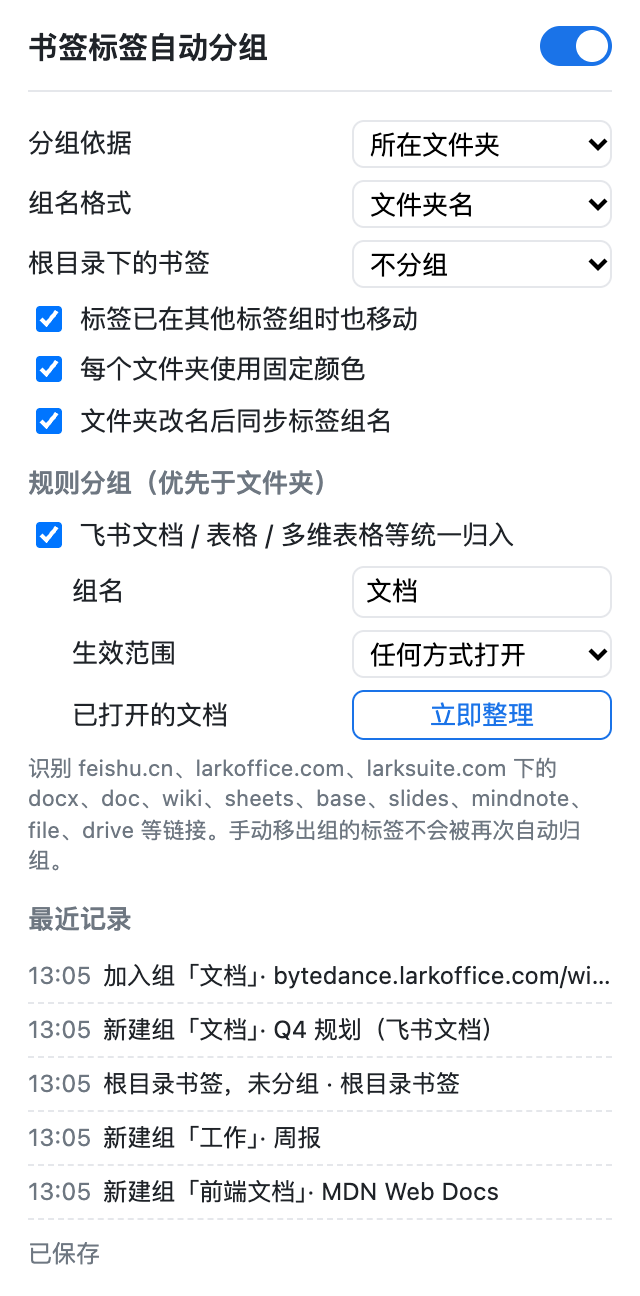
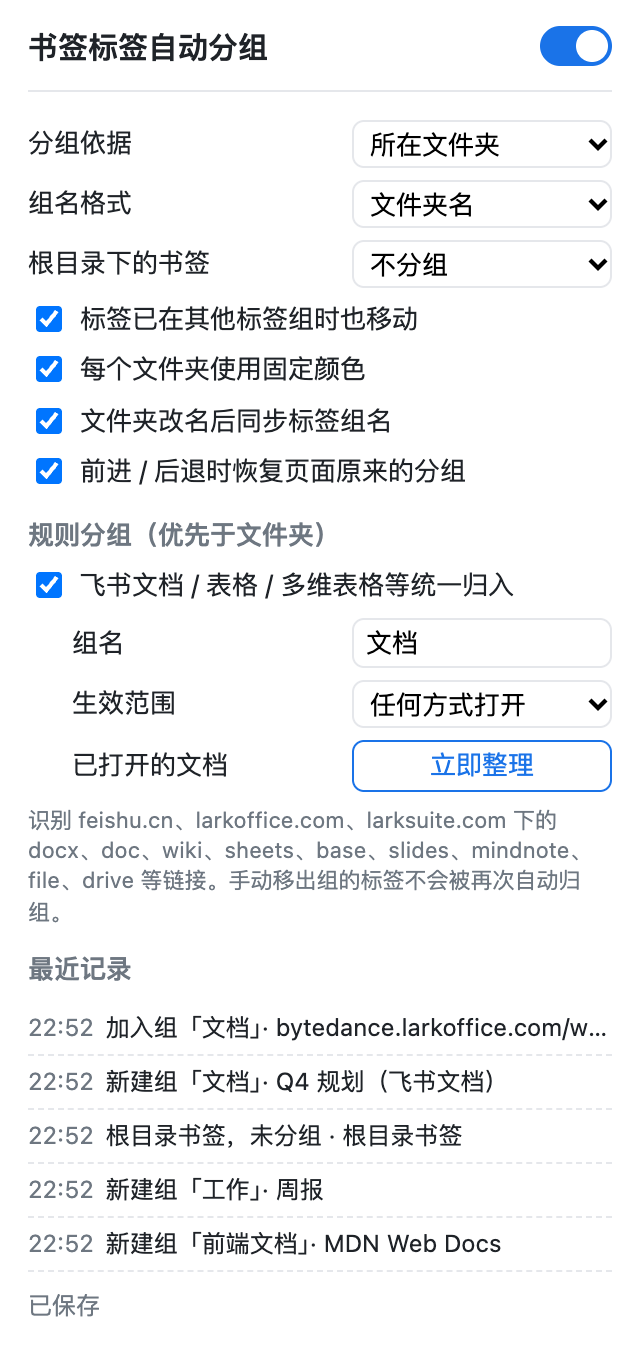
feat: 前进/后退时恢复页面原来的标签组（v1.3.0）
场景：在文档组的标签里从书签打开 misc 文件夹的书签，标签进入 misc 组；
点后退回到文档时，标签会自动回到文档组，前进又回到 misc 组。

实现
- 每个标签记录访问过的页面当时所在的组（storage.session.tabHistory，
  每标签最多 30 个），离开页面时和插件分组后各记一次
- onCommitted / onHistoryStateUpdated 收到 forward_back 导航时，
  按记录恢复：放回插件的组（组已删则重建）/ 移出组 / 放回用户原来的组
- 只纠正插件自己造成的分组：标签在用户自建组里、或用户手动移出过的，
  一律不动；没有历史记录（升级前打开的页面）不处理
- 新增设置“前进/后退时恢复页面原来的分组”，默认开启，可关闭
- 刷新、浏览器重启恢复的标签不触发

测试
- 单元测试 21 个（+3：isHistoryNav/historyKey、snapshotGroupState、
  decideHistoryRestore）
- 端到端 37 个场景（+5：文档↔Work 往返、放回用户组、不覆盖手动调整、
  SPA pushState 往返、关闭设置保持旧行为）
- 回退并移除了未完成的“点书签自动在新标签打开”尝试，相关代码无残留

diff --git a/extension/background.js b/extension/background.js
@@ -1,14 +1,18 @@
 import {
   DEFAULT_SETTINGS,
   DOC_GROUP_ID,
+  HISTORY_PER_TAB,
   ROOT_NODE_ID,
   buildCandidateUrls,
   colorForTarget,
+  decideHistoryRestore,
   docGroupTarget,
+  historyKey,
   isActiveMainFrame,
   isAutoDocCandidate,
   isBookmarkOpen,
   isDocUrl,
+  isHistoryNav,
   looseUrlKey,
   mapKey,
   mayBeBookmarkOpen,
@@ -18,6 +22,7 @@ import {
   resolveDocTarget,
   resolveGroupTarget,
   shortUrlLabel,
+  snapshotGroupState,
   titleForChain,
   usedDuringNavigation,
 } from './lib/core.js';
@@ -355,6 +360,107 @@ async function sweepDocTabs() {
   return { grouped };
 }
 
+// ---------- 前进 / 后退：每个页面记住当时所在的组 ----------
+// tabHistory: { [tabId]: { [historyKey(url)]: snapshot } }，存在 storage.session
+// tabUrl:     tabId -> 当前页面 URL（内存；SW 重启后从 chrome.tabs 补齐）
+const tabUrl = new Map();
+
+async function getTabHistory() {
+  const { tabHistory } = await chrome.storage.session.get('tabHistory');
+  return tabHistory || {};
+}
+
+/** 记录某标签上某页面当前所在的组 */
+async function rememberPageGroup(tabId, url, groupId, map) {
+  if (!url || !/^https?:/.test(url)) return;
+  map = map || (await getGroupMap());
+  const owned = Object.values(map).find((v) => v.groupId === groupId);
+  const all = await getTabHistory();
+  const h = all[tabId] || {};
+  const key = historyKey(url);
+  const snap = snapshotGroupState(groupId, owned);
+  if (JSON.stringify(h[key]) === JSON.stringify(snap)) return; // 没变化不写，减少单页应用频繁 pushState 时的写入
+  delete h[key]; // 重新插入，保持“最近使用”在最后
+  h[key] = snap;
+  const keys = Object.keys(h);
+  for (const k of keys.slice(0, Math.max(0, keys.length - HISTORY_PER_TAB))) delete h[k];
+  all[tabId] = h;
+  await chrome.storage.session.set({ tabHistory: all });
+}
+
+/**
+ * 离开当前页面前，记下它此刻的分组（用户可能已手动调整过）。
+ * leavingUrl 在事件里同步取得；SW 刚重启不知道时，退回用 tab.url（但不能是正要去的地址）。
+ */
+async function rememberLeavingPage(tabId, leavingUrl, targetUrl) {
+  const tab = await chrome.tabs.get(tabId).catch(() => null);
+  if (!tab) return;
+  let url = leavingUrl;
+  if (!url) {
+    url = tab.url;
+    if (!url || historyKey(url) === historyKey(targetUrl)) return;
+  }
+  await rememberPageGroup(tabId, url, tab.groupId);
+}
+
+/** 前进 / 后退回到某页面：恢复它当时所在的组 */
+async function restoreOnHistoryNav(tabId, url) {
+  const settings = await getSettings();
+  if (!settings.enabled || !settings.restoreOnHistoryNav) return { action: 'disabled' };
+  const want = (await getTabHistory())[tabId]?.[historyKey(url)];
+  const { tab, skip } = await getGroupableTab(tabId);
+  if (skip) return { action: skip };
+  const map = await getGroupMap();
+  const placed = await getPlacedTabs();
+  let userGroupAlive = false;
+  if (want?.g === 'user') {
+    const g = await getGroup(want.groupId);
+    userGroupAlive = !!g && g.windowId === tab.windowId;
+  }
+  const decision = decideHistoryRestore(want, {
+    groupId: tab.groupId,
+    owned: tab.groupId !== -1 && isOwnedGroup(map, tab.groupId),
+    dismissed: tabId in placed,
+    userGroupAlive,
+  });
+
+  let result = { action: decision };
+  if (decision === 'to-ext') {
+    const target = { folderId: want.folderId, title: want.title, kind: want.folderId === DOC_GROUP_ID ? 'docs' : 'folder' };
+    if (target.kind === 'docs') {
+      Object.assign(target, docGroupTarget(settings));
+    } else if (settings.syncTitleOnRename) {
+      // 文件夹可能已改名：取当前名字
+      try {
+        const chain = await getAncestors(want.folderId);
+        if (chain.length) target.title = titleForChain(chain, settings.titleStyle);
+      } catch {}
+    }
+    const groupId = await findGroupFor(tab.windowId, target, map);
+    if (groupId != null && tab.groupId === groupId) {
+      result = { action: 'already-in-group', groupId };
+    } else {
+      result = await moveToTarget(tab, target, groupId, settings, map);
+      placed[tabId] = result.groupId;
+    }
+    result.title = target.title;
+  } else if (decision === 'to-user') {
+    await withRetry(() => chrome.tabs.group({ tabIds: tabId, groupId: want.groupId }));
+    delete placed[tabId];
+  } else if (decision === 'ungroup') {
+    await withRetry(() => chrome.tabs.ungroup(tabId));
+    delete placed[tabId];
+  }
+  if (['created', 'joined', 'to-user', 'ungroup'].includes(result.action)) {
+    await setGroupMap(map);
+    await setPlacedTabs(placed);
+    const label = shortUrlLabel(url);
+    const group = result.title || (decision === 'to-user' ? (await getGroup(want.groupId))?.title : null);
+    await addLog({ action: decision === 'ungroup' ? 'restored-ungroup' : 'restored', group, bookmark: label, via: 'history' });
+  }
+  return result;
+}
+
 /** 书签文件夹改名/移动或设置变化后，同步标签组标题（仅限用户未手动改过的组） */
 async function syncGroupTitles() {
   const settings = await getSettings();
@@ -400,6 +506,11 @@ chrome.webNavigation.onBeforeNavigate.addListener((d) => {
   const urls = fresh ? prev.urls : [];
   urls.push(d.url);
   pendingNav.set(d.tabId, { urls, at: Date.now(), startedAt: fresh ? prev.startedAt : Date.now() });
+  // 记下即将离开的页面此刻所在的组（只在一次导航开始时记一次，重定向中途不重复记）
+  if (!fresh) {
+    const leavingUrl = tabUrl.get(d.tabId); // 同步取，避免排队期间被新页面覆盖
+    enqueue(() => rememberLeavingPage(d.tabId, leavingUrl, d.url));
+  }
 });
 
 chrome.webNavigation.onErrorOccurred.addListener((d) => {
@@ -412,7 +523,11 @@ chrome.webNavigation.onCommitted.addListener((d) => {
   pendingNav.delete(d.tabId);
   const fresh = pending && Date.now() - pending.at < PENDING_TTL_MS;
   const candidates = buildCandidateUrls(fresh ? pending.urls : [], d.url);
-  if (isBookmarkOpen(d)) {
+  tabUrl.set(d.tabId, d.url);
+  if (isHistoryNav(d)) {
+    // 前进 / 后退：恢复该页面当时的分组，不按书签 / 文档规则重新归组
+    enqueue(() => restoreOnHistoryNav(d.tabId, d.url));
+  } else if (isBookmarkOpen(d)) {
     enqueue(() => processBookmarkNavigation(d.tabId, candidates, { via: 'transition' }));
   } else if (mayBeBookmarkOpen(d)) {
     // 先按书签管理器路径识别；不是书签时内部会回落到文档自动归组
@@ -426,13 +541,31 @@ chrome.webNavigation.onCommitted.addListener((d) => {
     // 登录后跳回文档（client_redirect）、表单提交后跳转等
     enqueue(() => processAutoDocNavigation(d.tabId, candidates));
   }
+  // 处理完后记下新页面所在的组
+  enqueue(() => rememberCurrentPage(d.tabId, d.url));
 });
 
 // 飞书网页是单页应用：站内切换到文档时不触发 onCommitted，只触发 onHistoryStateUpdated
 chrome.webNavigation.onHistoryStateUpdated.addListener((d) => {
-  if (!isActiveMainFrame(d) || !isAutoDocCandidate(d) || !isDocUrl(d.url)) return;
-  enqueue(() => processAutoDocNavigation(d.tabId, [d.url]));
+  if (!isActiveMainFrame(d)) return;
+  const prevUrl = tabUrl.get(d.tabId);
+  tabUrl.set(d.tabId, d.url);
+  enqueue(async () => {
+    // pushState / 后退前，先记下离开的那个“页面”的分组
+    if (prevUrl && historyKey(prevUrl) !== historyKey(d.url)) {
+      const tab = await chrome.tabs.get(d.tabId).catch(() => null);
+      if (tab) await rememberPageGroup(d.tabId, prevUrl, tab.groupId);
+    }
+    if (isHistoryNav(d)) await restoreOnHistoryNav(d.tabId, d.url);
+    else if (isAutoDocCandidate(d) && isDocUrl(d.url)) await processAutoDocNavigation(d.tabId, [d.url]);
+    await rememberCurrentPage(d.tabId, d.url);
+  });
 });
+
+async function rememberCurrentPage(tabId, url) {
+  const tab = await chrome.tabs.get(tabId).catch(() => null);
+  if (tab) await rememberPageGroup(tabId, url, tab.groupId);
+}
 
 chrome.webNavigation.onTabReplaced.addListener(({ replacedTabId, tabId }) => {
   const p = pendingNav.get(replacedTabId);
@@ -447,16 +580,28 @@ chrome.webNavigation.onTabReplaced.addListener(({ replacedTabId, tabId }) => {
       delete placed[replacedTabId];
       await setPlacedTabs(placed);
     }
+    const all = await getTabHistory();
+    if (replacedTabId in all) {
+      all[tabId] = all[replacedTabId];
+      delete all[replacedTabId];
+      await chrome.storage.session.set({ tabHistory: all });
+    }
   });
 });
 
 chrome.tabs.onRemoved.addListener((tabId) => {
   pendingNav.delete(tabId);
+  tabUrl.delete(tabId);
   enqueue(async () => {
     const placed = await getPlacedTabs();
     if (tabId in placed) {
       delete placed[tabId];
       await setPlacedTabs(placed);
+    }
+    const all = await getTabHistory();
+    if (tabId in all) {
+      delete all[tabId];
+      await chrome.storage.session.set({ tabHistory: all });
     }
   });
 });
@@ -519,10 +664,12 @@ chrome.runtime.onInstalled.addListener(async () => {
 globalThis.__btg = {
   processBookmarkNavigation,
   processAutoDocNavigation,
+  restoreOnHistoryNav,
   sweepDocTabs,
   syncGroupTitles,
   getGroupMap,
   getPlacedTabs,
+  getTabHistory,
   getSettings,
   idle: () => queue,
 };

diff --git a/extension/lib/core.js b/extension/lib/core.js
@@ -23,6 +23,7 @@ export const DEFAULT_SETTINGS = Object.freeze({
   docGroupEnabled: true, // 飞书文档 / 表格 / 多维表格等统一归入一个组（优先于按文件夹分组）
   docGroupTitle: DEFAULT_DOC_GROUP_TITLE, // 该组的名字
   docGroupScope: 'any', // 'any' 任何方式打开的飞书文档都归组 | 'bookmark' 仅从书签打开时归组
+  restoreOnHistoryNav: true, // 前进 / 后退时，把标签放回该页面当时所在的组
 });
 
 const ENUMS = {
@@ -253,4 +254,51 @@ export function colorForFolder(folderId) {
 
 export function mapKey(windowId, folderId) {
   return `${windowId}:${folderId}`;
+}
+
+// ---------- 前进 / 后退时恢复分组 ----------
+export const HISTORY_PER_TAB = 30; // 每个标签最多记住多少个页面的分组状态
+
+/** 是否为前进 / 后退导航 */
+export function isHistoryNav(d) {
+  return !!d && (d.transitionQualifiers || []).includes('forward_back');
+}
+
+/** 历史记录的键：去掉 #hash，其余保持原样 */
+export function historyKey(url) {
+  try {
+    const u = new URL(url);
+    u.hash = '';
+    return u.href;
+  } catch {
+    return String(url || '');
+  }
+}
+
+/**
+ * 页面分组状态的快照
+ * @param {number} groupId 标签当前 groupId（-1 表示未分组）
+ * @param {{groupId:number, folderId:string, title:string}|undefined} ownedEntry 若该组由本扩展创建，对应的映射条目
+ */
+export function snapshotGroupState(groupId, ownedEntry) {
+  if (groupId === -1 || groupId == null) return { g: 'none' };
+  if (ownedEntry) return { g: 'ext', folderId: ownedEntry.folderId, title: ownedEntry.title };
+  return { g: 'user', groupId };
+}
+
+/**
+ * 前进 / 后退回到某个页面时，决定怎么处理分组。
+ * 原则：每个页面记住自己当时所在的组；但只纠正“本扩展造成的”分组，用户自己的整理不动。
+ * @param want 该页面记录的状态（snapshotGroupState 的结果），没有记录则为 undefined
+ * @param cur  { groupId, owned: 当前组是否本扩展创建, dismissed: 用户是否手动移出过, userGroupAlive: want 指向的用户组是否还在同一窗口 }
+ * @returns 'no-history' | 'skip-user-group' | 'skip-dismissed' | 'to-ext' | 'to-user' | 'ungroup' | 'none'
+ */
+export function decideHistoryRestore(want, cur) {
+  if (!want) return 'no-history';
+  if (cur.groupId !== -1 && !cur.owned) return 'skip-user-group'; // 当前在用户自己的组里：不动
+  if (cur.groupId === -1 && cur.dismissed) return 'skip-dismissed'; // 用户手动移出过：不动
+  if (want.g === 'ext') return 'to-ext'; // 放回本扩展的组（不存在则重建）
+  if (!cur.owned) return 'none'; // 当前未分组、目标也不是本扩展的组：不动
+  if (want.g === 'user' && cur.userGroupAlive) return 'to-user'; // 放回用户原来的组
+  return 'ungroup'; // 该页面当时未分组：移出本扩展的组
 }

diff --git a/extension/popup/popup.js b/extension/popup/popup.js
@@ -7,11 +7,14 @@ const ACTION_TEXT = {
   'skip-root': '根目录书签，未分组',
   'skip-user-group': '已在其他组，未移动',
   swept: '整理到',
+  restored: '恢复到',
+  'restored-ungroup': '恢复为未分组',
 };
 
 const VIA_TEXT = {
   'recent-use': '（书签管理器）',
   auto: '（非书签）',
+  history: '（前进/后退）',
 };
 
 const $ = (id) => document.getElementById(id);

diff --git a/extension/popup/popup.html b/extension/popup/popup.html
@@ -48,6 +48,10 @@
         <input type="checkbox" id="syncTitleOnRename" />
         文件夹改名后同步标签组名
       </label>
+      <label class="check">
+        <input type="checkbox" id="restoreOnHistoryNav" />
+        前进 / 后退时恢复页面原来的分组
+      </label>
     </section>
 
     <section id="rules">
